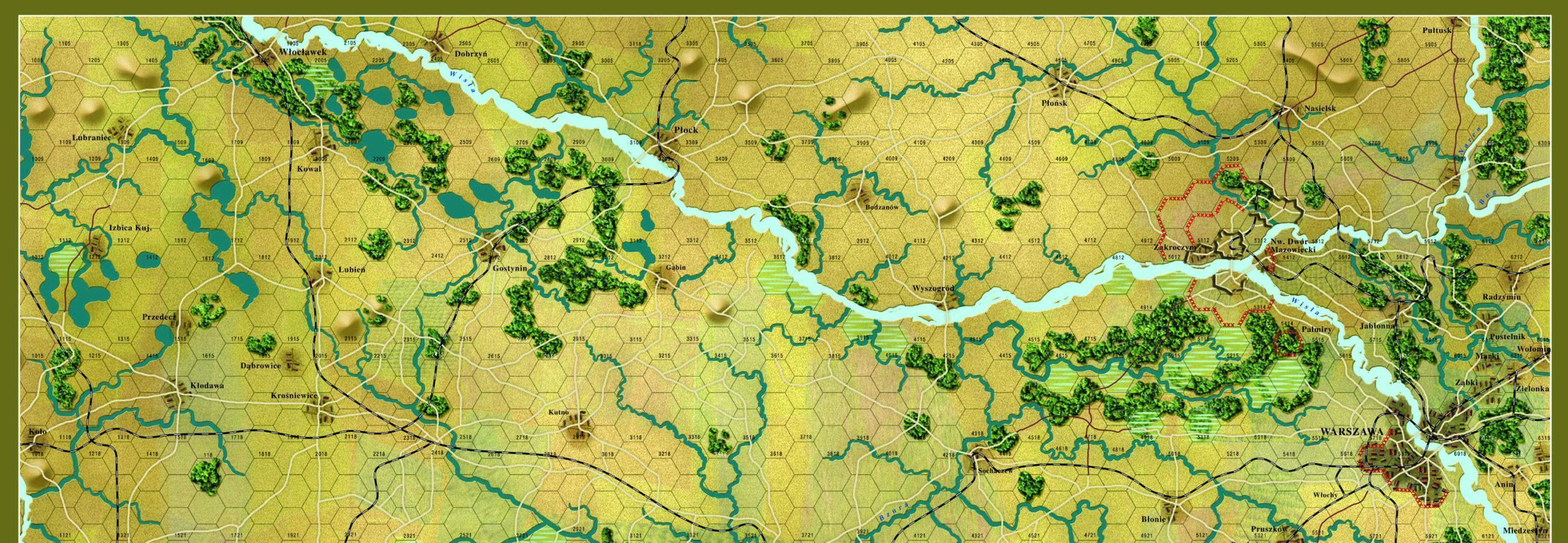
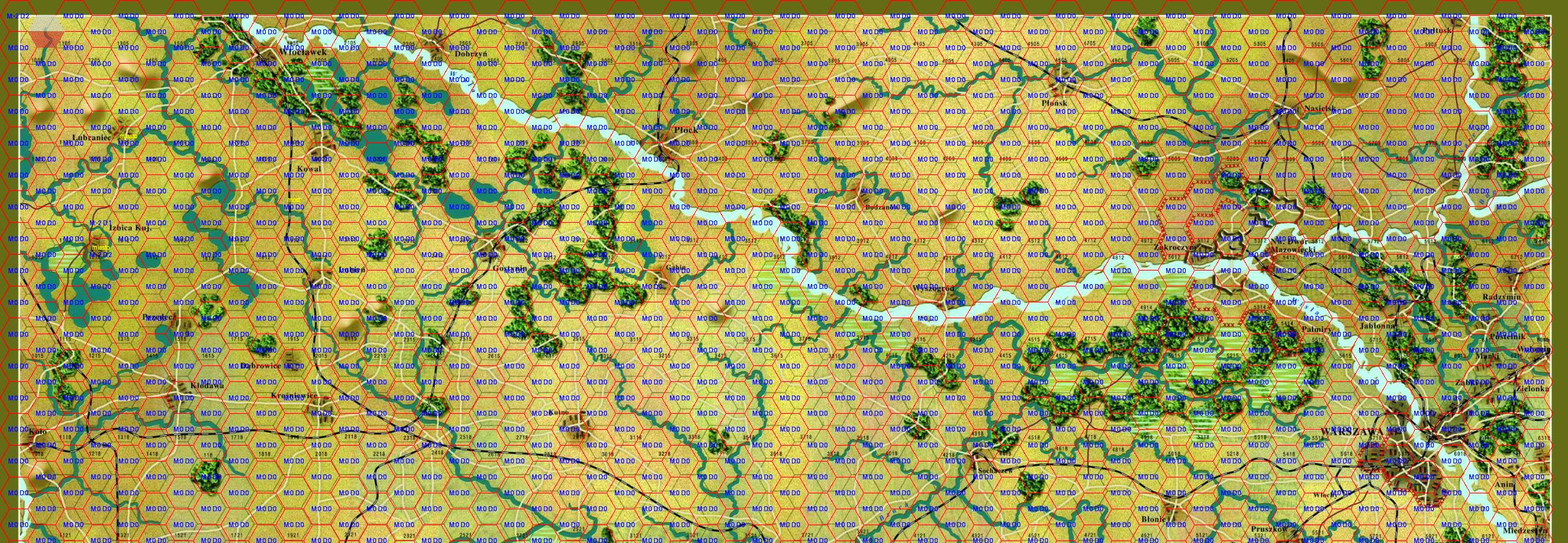
Eksport projektu

diff --git a/edytory/map_editor_prototyp.py b/edytory/map_editor_prototyp.py
@@ -428,6 +428,9 @@ class MapEditor:
             self.hex_data = loaded_data.get("terrain", {})
             self.key_points = loaded_data.get("key_points", {})
             self.spawn_points = loaded_data.get("spawn_points", {})
+            # Upewnij się, że mamy obraz tła w PhotoImage
+            if not hasattr(self, 'photo_bg'):
+                self.load_map_image()
             self.draw_grid()
             messagebox.showinfo("Wczytano", f"Dane mapy zostały wczytane z:\n{self.current_working_file}\n"
                                            f"Liczba kluczowych punktów: {len(self.key_points)}\n"
@@ -451,18 +454,57 @@ class MapEditor:
         # Tworzenie folderu, jeśli nie istnieje
         os.makedirs(DEST_FOLDER, exist_ok=True)
 
-        try:
-            # Zapisanie mapy globalnej
-            self.bg_image.save(DEST_GLOBAL_MAP)
-            print(f"[INFO] Zapisano mapę globalną: {DEST_GLOBAL_MAP}")
+        decorated = self.bg_image.copy()
+        mid_pixel = self.world_height // 2
 
-            # Zapisanie map dowódców (przykład: podział na pół mapy)
+        try:
+            # przygotuj warstwę RGBA
+            base = self.bg_image.convert("RGBA")
+            overlay = Image.new("RGBA", base.size, (0,0,0,0))
+            draw = ImageDraw.Draw(overlay)
+            font = ImageFont.load_default()
+
+            # Rysowanie siatki i tekstów na warstwie overlay
+            for hex_id, (cx, cy) in self.hex_centers.items():
+                verts = get_hex_vertices(cx, cy, self.hex_size)
+                draw.polygon(verts, outline='red')
+                terrain = self.hex_data.get(hex_id, self.hex_defaults)
+                txt = f"M:{terrain['move_mod']} D:{terrain['defense_mod']}"
+                draw.text((cx, cy), txt, font=font, fill='blue', anchor='mm')
+
+            # Rysowanie punktów kluczowych na warstwie overlay
+            for hex_id, kp in self.key_points.items():
+                cx, cy = self.hex_centers[hex_id]
+                draw.text((cx, cy - self.hex_size*0.4), kp['type'], font=font, fill='yellow', anchor='mm')
+
+            # rysuj mgiełkę punktów wystawienia
+            for nation, hexes in self.spawn_points.items():
+                for hex_id in hexes:
+                    cx, cy = self.hex_centers[hex_id]
+                    verts = get_hex_vertices(cx, cy, self.hex_size)
+                    if nation == "Polska":
+                        # lewa połowa biało
+                        left_half = [verts[i] for i in (0,1,2,3)]
+                        draw.polygon(left_half, fill=(255,255,255,100), outline=None)
+                        # prawa połowa czerwono
+                        right_half = [verts[i] for i in (0,3,4,5)]
+                        draw.polygon(right_half, fill=(255,0,0,100), outline=None)
+                    elif nation == "Niemcy":
+                        # całość granatowa
+                        draw.polygon(verts, fill=(0,0,128,100), outline=None)
+
+            # Scal warstwy i zapisz
+            decorated = Image.alpha_composite(base, overlay)
             mid_pixel = self.world_height // 2
-            img_top = self.bg_image.crop((0, 0, self.world_width, mid_pixel))
-            img_bottom = self.bg_image.crop((0, mid_pixel, self.world_width, self.world_height))
+
+            # Konwersja RGBA → RGB przed przycinaniem i zapisem
+            rgb_map = decorated.convert("RGB")
+            # Zapisz pełną mapę globalną przed przycięciem
+            rgb_map.save(DEST_GLOBAL_MAP)
+            img_top = rgb_map.crop((0, 0, self.world_width, mid_pixel))
+            img_bottom = rgb_map.crop((0, mid_pixel, self.world_width, self.world_height))
             img_top.save(DEST_COMMANDER1_MAP)
             img_bottom.save(DEST_COMMANDER2_MAP)
-            print(f"[INFO] Zapisano mapy dowódców: {DEST_COMMANDER1_MAP}, {DEST_COMMANDER2_MAP}")
 
             # Zapisanie danych JSON
             map_data = {
